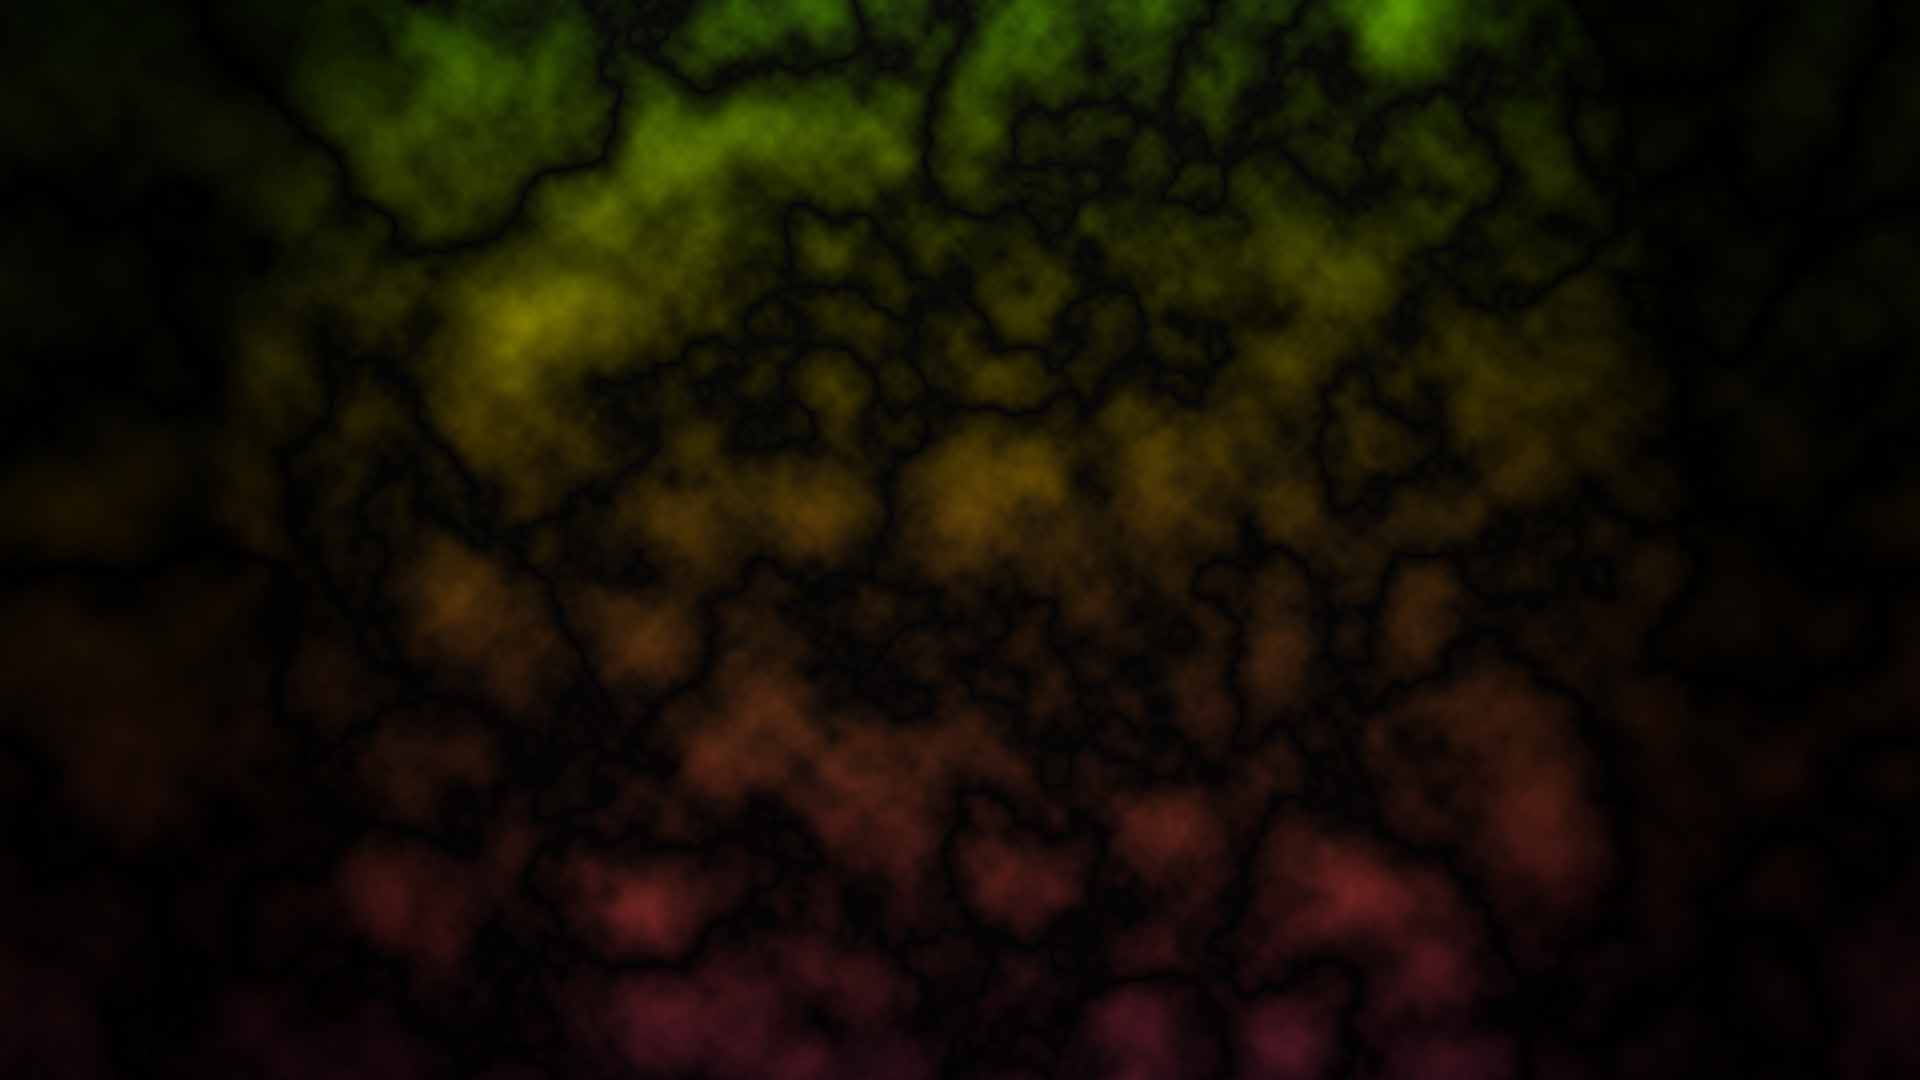
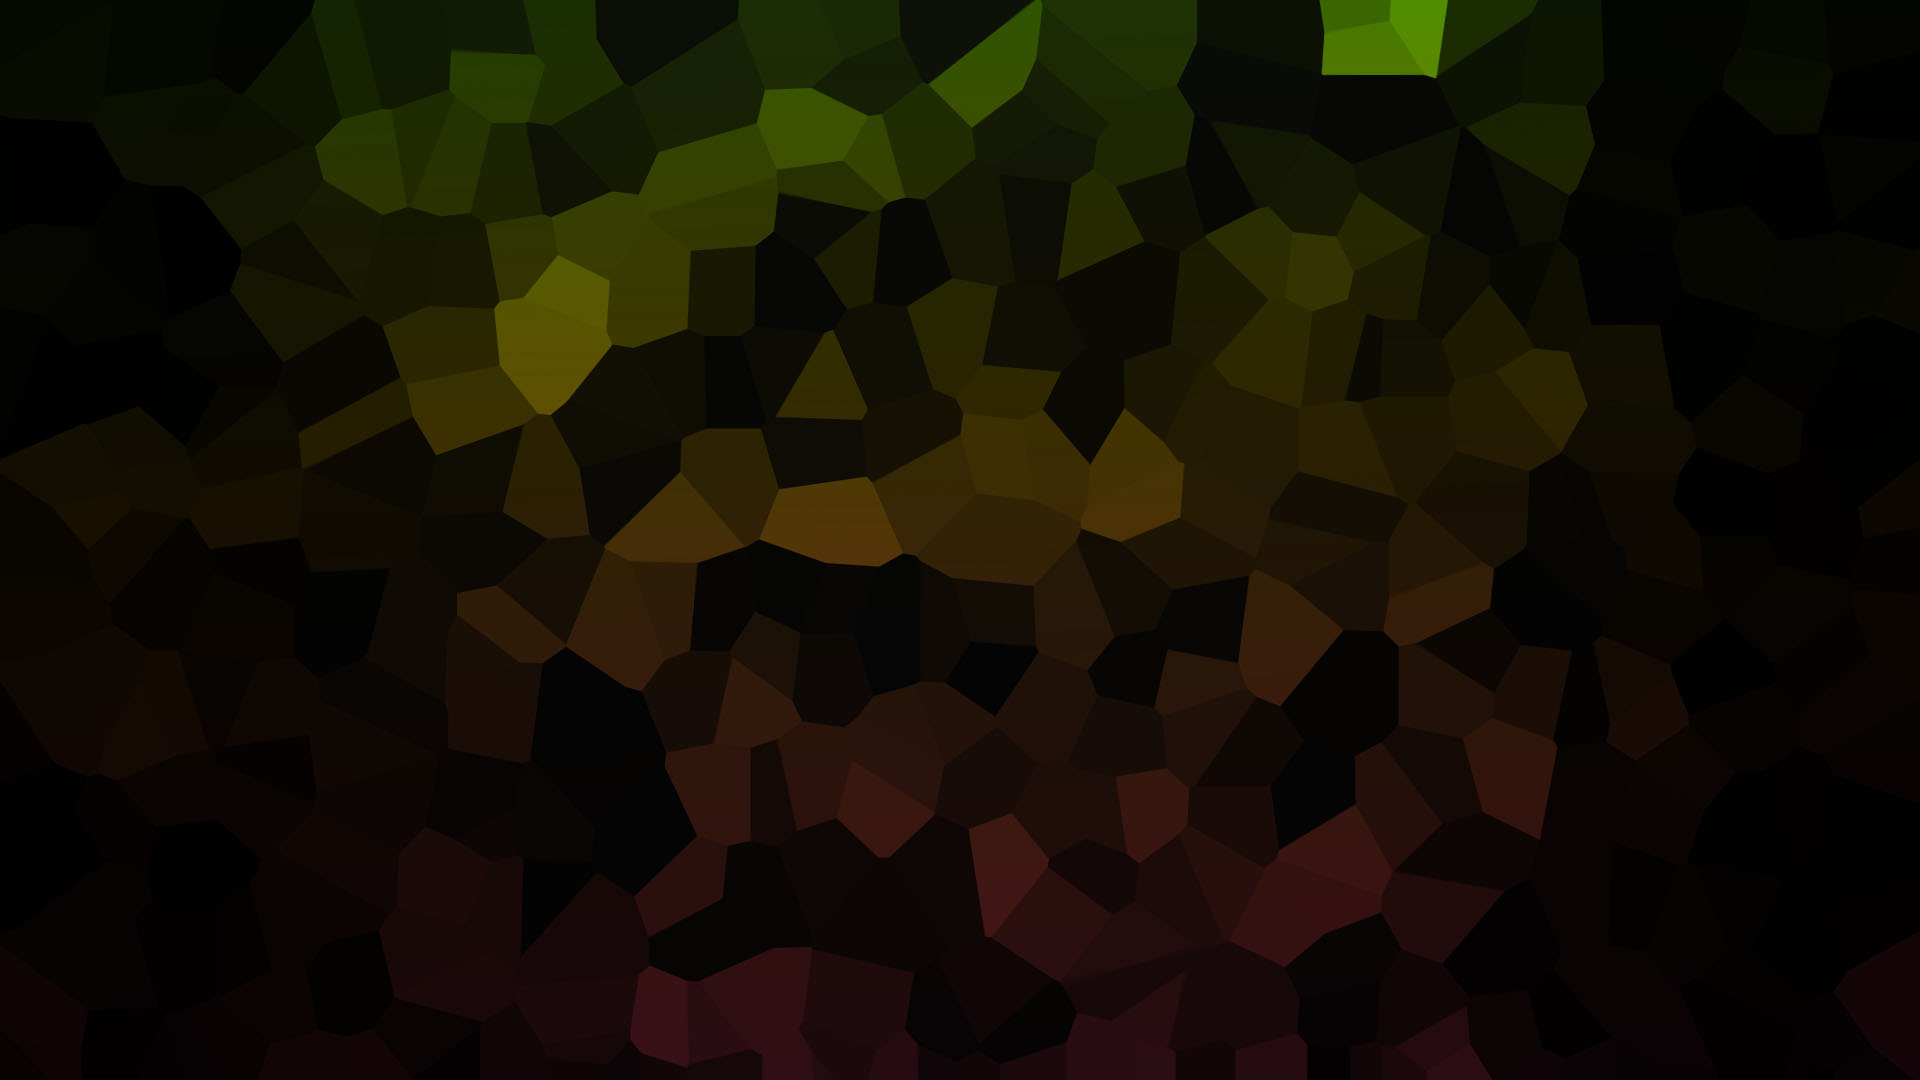
Updated background Site prepared for mbta trip planner

diff --git a/index.html b/index.html
@@ -64,6 +64,11 @@ Adam Gressen's Webpage
 				Welcome to my page.<br />
 				&nbsp;&nbsp;I am currently studying Computer Science and Game Design at Northeastern University.&nbsp;&nbsp;
 				<br /><br />
+				<!--<br />
+				I recently created an MBTA Trip Planner for my Software Development class.
+				You can check it out <a href="mbta.html">here</a>.
+				<br />I did some blogging during development. You can read my MBTA blog <a href="www.adamgressen.blogspot.com">here</a>.
+				<br /><br /><br />-->
 				I am also actively developing an iPhone app for <a href="http://www.30hands.com" target="_blank">
 				<img src="30hands.jpg" alt="30hands Learning" height="31"></img></a>
 				<br /><br />
